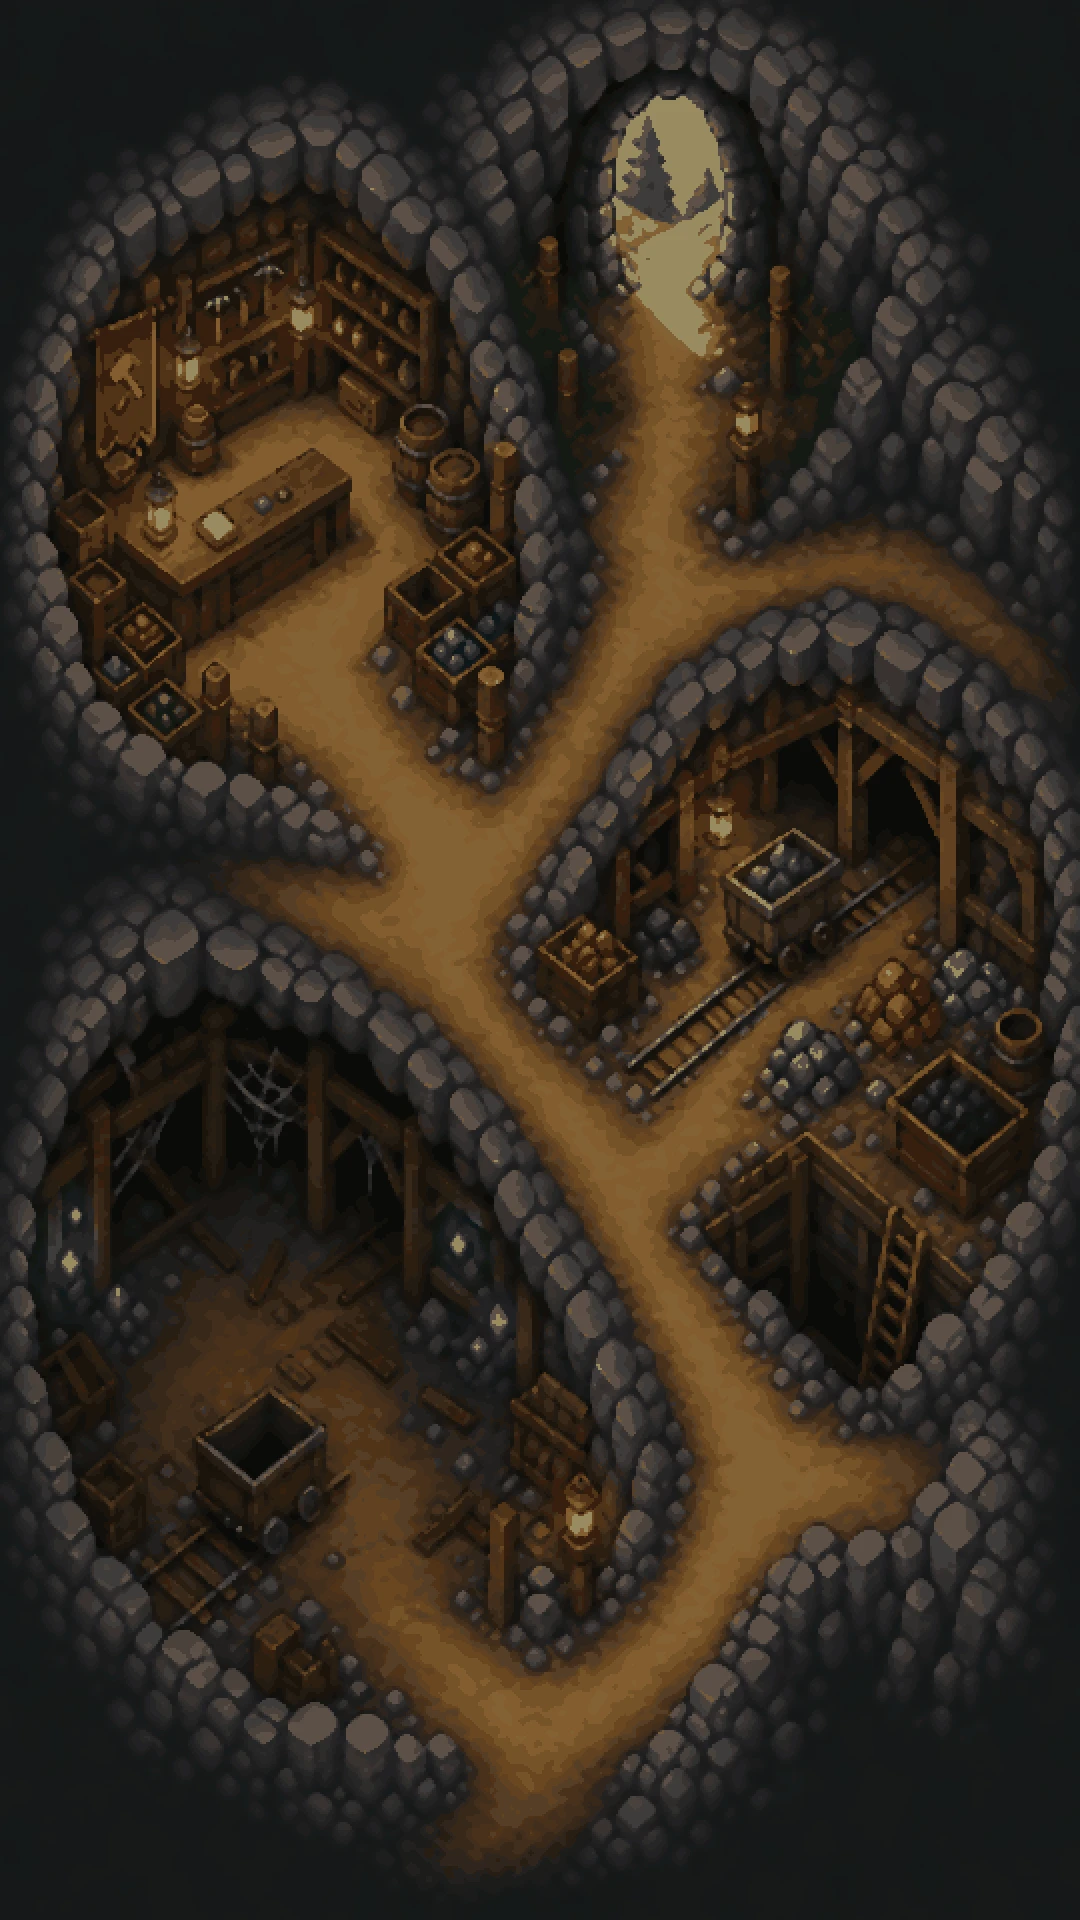
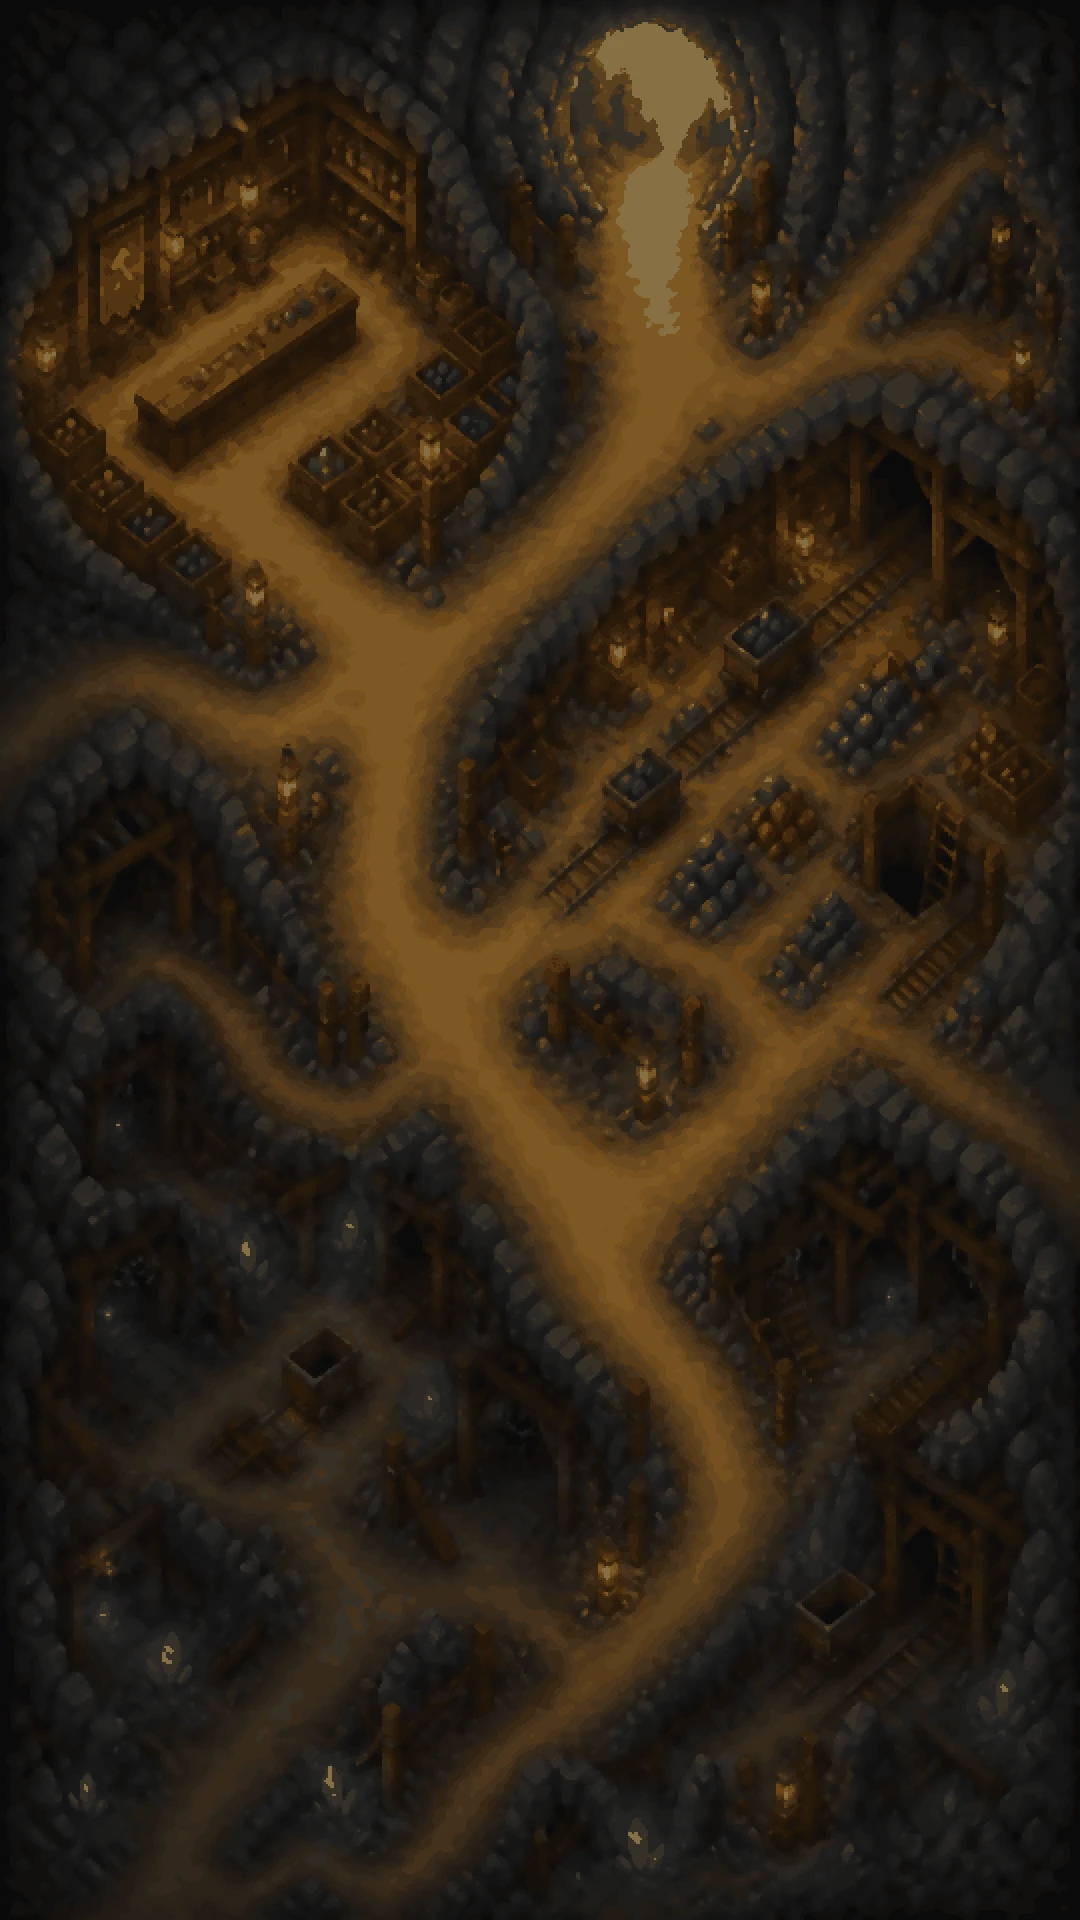
Grow the cave plate so the tunnels and chambers fill the frame.
Same four landmarks, just a larger connected system.

diff --git a/packages/ik_rules/lib/src/world/map_layout.dart b/packages/ik_rules/lib/src/world/map_layout.dart
@@ -47,13 +47,13 @@ const Map<String, NodePosition> mainMapNodeLayout = <String, NodePosition>{
 
 const Map<String, NodePosition> caveMapNodeLayout = <String, NodePosition>{
   // Sunlit cave mouth looking out to the mountains
-  'LOC-0010': NodePosition(x: 50, y: 10),
+  'LOC-0010': NodePosition(x: 55, y: 10),
   // Dwarven shop counter, lanterns and gem crates
-  'LOC-0012': NodePosition(x: 22, y: 28),
-  // Working shaft with ore cart and tracks
-  'LOC-0011': NodePosition(x: 72, y: 50),
-  // Abandoned shaft with empty cart and crystals
-  'LOC-0022': NodePosition(x: 28, y: 74),
+  'LOC-0012': NodePosition(x: 22, y: 22),
+  // Working shaft with ore carts and tracks
+  'LOC-0011': NodePosition(x: 70, y: 40),
+  // Abandoned crystal tunnels
+  'LOC-0022': NodePosition(x: 30, y: 78),
 };
 
 const Map<String, NodePosition> castleMapNodeLayout = <String, NodePosition>{

diff --git a/src/game/world/mapLayout.ts b/src/game/world/mapLayout.ts
@@ -50,13 +50,13 @@ export const MAIN_MAP_NODE_LAYOUT: Record<string, NodePosition> = {
 
 export const CAVE_MAP_NODE_LAYOUT: Record<string, NodePosition> = {
   // Sunlit cave mouth looking out to the mountains
-  'LOC-0010': { x: 50, y: 10 },
+  'LOC-0010': { x: 55, y: 10 },
   // Dwarven shop counter, lanterns and gem crates
-  'LOC-0012': { x: 22, y: 28 },
-  // Working shaft with ore cart and tracks
-  'LOC-0011': { x: 72, y: 50 },
-  // Abandoned shaft with empty cart and crystals
-  'LOC-0022': { x: 28, y: 74 },
+  'LOC-0012': { x: 22, y: 22 },
+  // Working shaft with ore carts and tracks
+  'LOC-0011': { x: 70, y: 40 },
+  // Abandoned crystal tunnels
+  'LOC-0022': { x: 30, y: 78 },
 }
 
 export const CASTLE_MAP_NODE_LAYOUT: Record<string, NodePosition> = {
